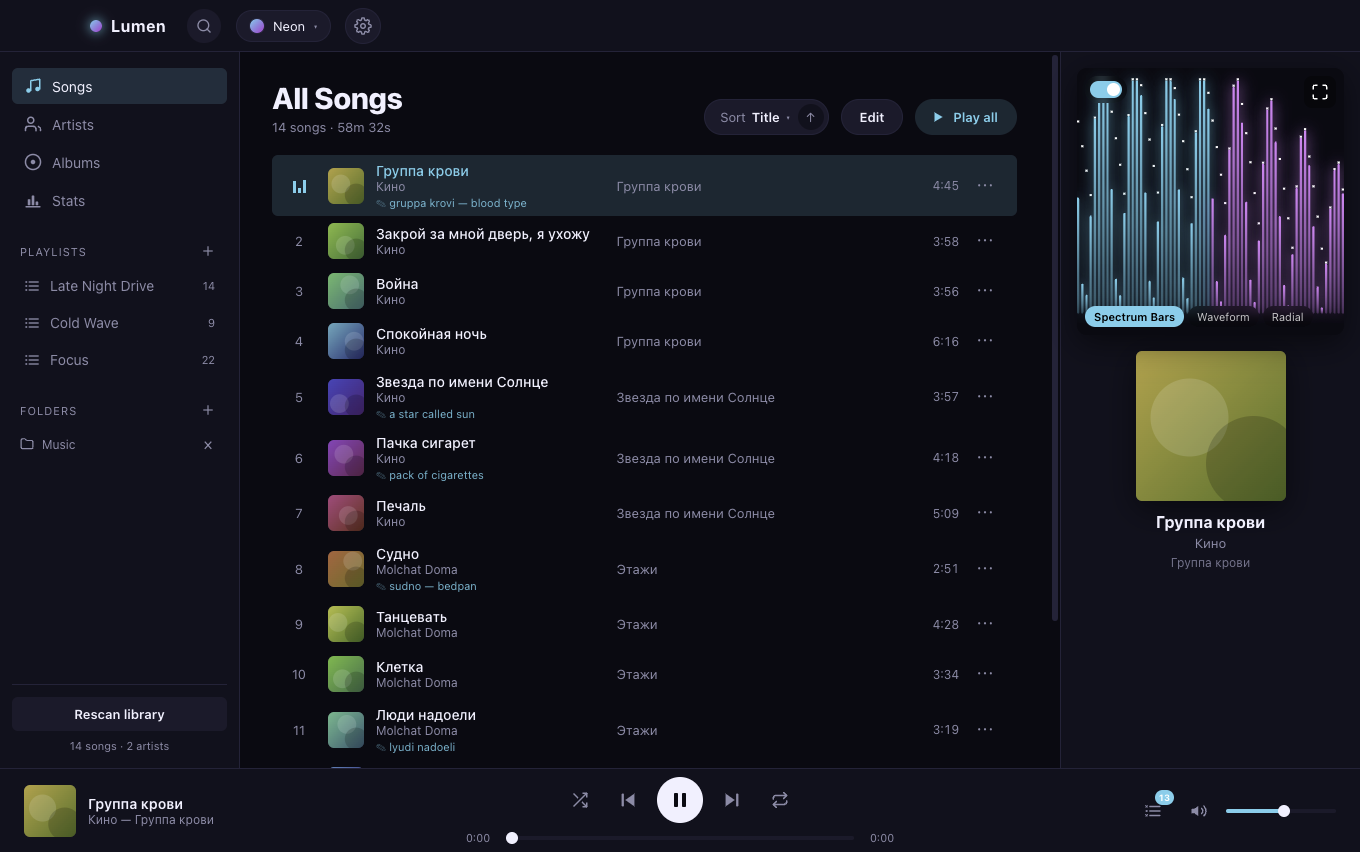
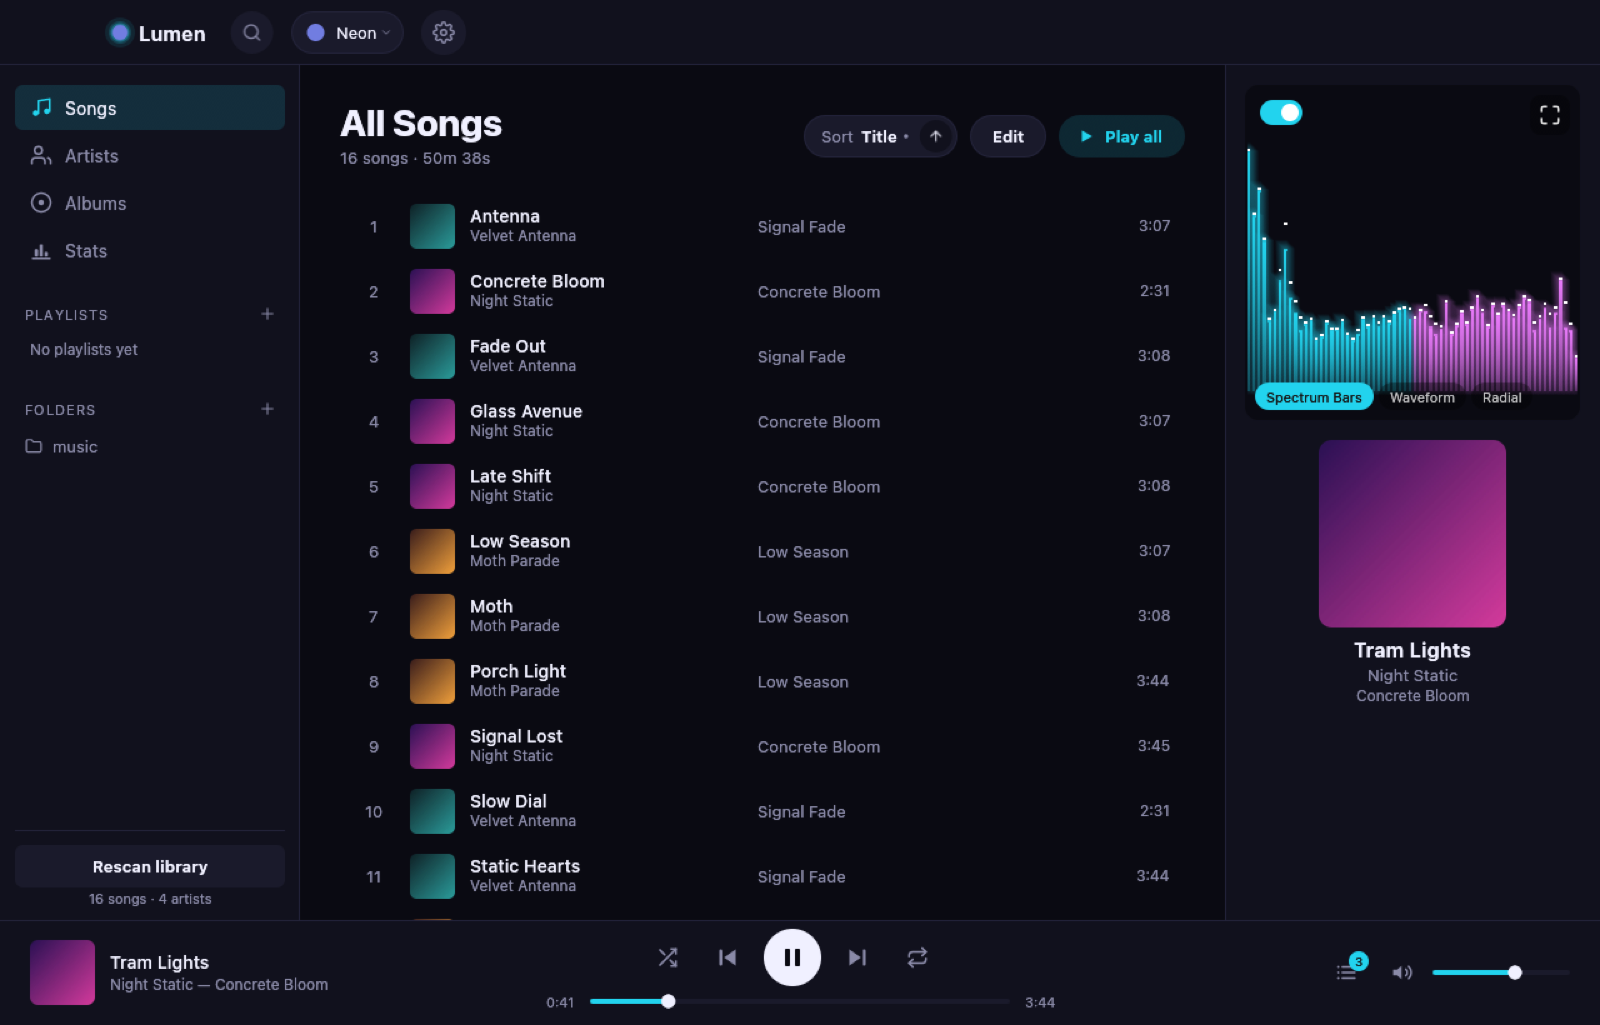
Retake the README screenshots from the Rust app, and tidy leftover Electron references
scripts/screenshots.sh builds a made-up library (generated tones with tags
and gradient covers) and screenshots the real app against it, so the
README shows the native interface without anyone's music in it. Comments
no longer point at TypeScript files that are gone, and About just says the
version.

diff --git a/app/src/ui/icons.rs b/app/src/ui/icons.rs
@@ -1,8 +1,5 @@
-//! Lumen's icons: the same 24x24 line icons as the Electron app
-//! (src/renderer/src/components/icons.tsx), as SVG. They're drawn white and
-//! tinted when painted.
-//!
-//! Generated from icons.tsx; keep the two in step.
+//! Lumen's icons: 24x24 line icons as SVG (the set the Electron app used).
+//! They're drawn white and tinted when painted.
 
 pub const PLAY: &str = r##"<svg xmlns="http://www.w3.org/2000/svg" viewBox="0 0 24 24" fill="none" stroke="#ffffff" stroke-width="2" stroke-linecap="round" stroke-linejoin="round"><polygon points="6 4 20 12 6 20 6 4" fill="#ffffff" stroke="none" /></svg>"##;
 pub const PAUSE: &str = r##"<svg xmlns="http://www.w3.org/2000/svg" viewBox="0 0 24 24" fill="none" stroke="#ffffff" stroke-width="2" stroke-linecap="round" stroke-linejoin="round"><rect x="6" y="5" width="4" height="14" fill="#ffffff" stroke="none" rx="1" /> <rect x="14" y="5" width="4" height="14" fill="#ffffff" stroke="none" rx="1" /></svg>"##;

diff --git a/app/src/ui/settings.rs b/app/src/ui/settings.rs
@@ -1,4 +1,4 @@
-//! Settings (SettingsModal.tsx): appearance, the visualizer frame rate,
+//! Settings: appearance, the visualizer frame rate,
 //! listening stats, Discord Rich Presence, and About with the update check.
 
 use eframe::egui::{self, Color32, FontId, Id, Rect, Sense, Stroke, StrokeKind, Ui, pos2, vec2};
@@ -191,7 +191,7 @@ fn discord(app: &mut LumenApp, ui: &mut Ui) {
 fn about(app: &mut LumenApp, ui: &mut Ui) {
     let p = app.p;
     let version = env!("CARGO_PKG_VERSION");
-    row(ui, &p, "About", &format!("Version {version} · native"), |ui| {
+    row(ui, &p, "About", &format!("Version {version}"), |ui| {
         let label = if app.update.running { "Checking…" } else { "Check for updates" };
         if widgets::pill(ui, &p, label, widgets::Pill::Neutral, None).clicked() && !app.update.running {
             start_update_check(app, ui.ctx().clone());

diff --git a/crates/lumen-core/src/lib.rs b/crates/lumen-core/src/lib.rs
@@ -1,4 +1,4 @@
-//! Lumen's library: the SQLite database shared with the Electron app, folder
+//! Lumen's library: the SQLite database (the same file the Electron app used), folder
 //! scanning, search folding, listening stats and theme tokens.
 
 pub mod db;
@@ -13,8 +13,8 @@ pub use models::*;
 
 use std::path::PathBuf;
 
-/// Where the Electron app keeps its data (`app.getPath('userData')`), which
-/// this app shares so the library carries straight over.
+/// Lumen's data folder. It's where the Electron app kept its data
+/// (`app.getPath('userData')`), so an upgrade finds the library in place.
 pub fn data_dir() -> Option<PathBuf> {
     #[cfg(target_os = "macos")]
     let base = std::env::var_os("HOME").map(|h| PathBuf::from(h).join("Library/Application Support"));

diff --git a/crates/lumen-core/examples/scan_folder.rs b/crates/lumen-core/examples/scan_folder.rs
@@ -1,0 +1,15 @@
+//! Scan a folder into a library file, without the app:
+//! `cargo run -p lumen-core --example scan_folder -- <library.db> <folder>`.
+//! scripts/screenshots.sh uses it to build its demo library.
+
+fn main() {
+    let mut args = std::env::args().skip(1);
+    let (Some(db), Some(folder)) = (args.next(), args.next()) else {
+        eprintln!("usage: scan_folder <library.db> <folder>");
+        std::process::exit(2);
+    };
+    let lib = lumen_core::Library::open(std::path::Path::new(&db)).expect("open library");
+    lib.add_folder(&folder).expect("add folder");
+    let result = lumen_core::scanner::scan(&lib, &[folder], |_| {}).expect("scan");
+    println!("{result:?}");
+}

diff --git a/crates/lumen-core/src/db.rs b/crates/lumen-core/src/db.rs
@@ -1,6 +1,5 @@
-//! The library database. Same file, schema and rules as the Electron app's
-//! src/main/db.ts, so the native app opens an existing `library.db` in place
-//! and both can even run against it.
+//! The library database. Same file, schema and rules as the Electron app had
+//! (up to 0.2.5), so an upgrade opens the existing `library.db` in place.
 
 use std::collections::HashSet;
 use std::path::Path;

diff --git a/app/src/ui/content.rs b/app/src/ui/content.rs
@@ -1,4 +1,4 @@
-//! The middle of the window (LibraryView.tsx): a view's header with sort,
+//! The middle of the window: a view's header with sort,
 //! Edit and Play all; the track list with edit mode (multi-select, or drag to
 //! reorder an album) and the selection bar; and the artist and album grids.
 

diff --git a/app/src/ui/sidebar.rs b/app/src/ui/sidebar.rs
@@ -1,4 +1,4 @@
-//! The sidebar (Sidebar.tsx): library views, playlists you can drag into
+//! The sidebar: library views, playlists you can drag into
 //! order, music folders, and the rescan button with its progress.
 
 use eframe::egui::{self, FontId, Id, Rect, Sense, Stroke, StrokeKind, Ui, pos2, vec2};

diff --git a/app/src/ui/transport.rs b/app/src/ui/transport.rs
@@ -1,4 +1,4 @@
-//! The transport bar (TransportBar.tsx): what's playing, the controls and seek
+//! The transport bar: what's playing, the controls and seek
 //! bar in the middle, the queue button and volume on the right.
 
 use eframe::egui::{self, FontId, Id, Rect, Sense, Ui, pos2, vec2};

diff --git a/app/src/ui/nowplaying.rs b/app/src/ui/nowplaying.rs
@@ -1,4 +1,4 @@
-//! The now-playing panel (NowPlaying.tsx): the visualizer card with its
+//! The now-playing panel: the visualizer card with its
 //! switch, full-screen button and tabs, then the art (or the music video),
 //! and the song's details.
 

diff --git a/app/src/ui/theme_editor.rs b/app/src/ui/theme_editor.rs
@@ -1,4 +1,4 @@
-//! The custom theme editor (ThemeEditor.tsx): start from a built-in theme,
+//! The custom theme editor: start from a built-in theme,
 //! pick every colour and the font, and share it as the same JSON the other
 //! Lumen apps read.
 

diff --git a/app/src/ui/stats.rs b/app/src/ui/stats.rs
@@ -1,4 +1,4 @@
-//! The Stats view (StatsView.tsx): totals, the last 12 weeks, and the
+//! The Stats view: totals, the last 12 weeks, and the
 //! most-played leaderboard.
 
 use std::collections::HashMap;
